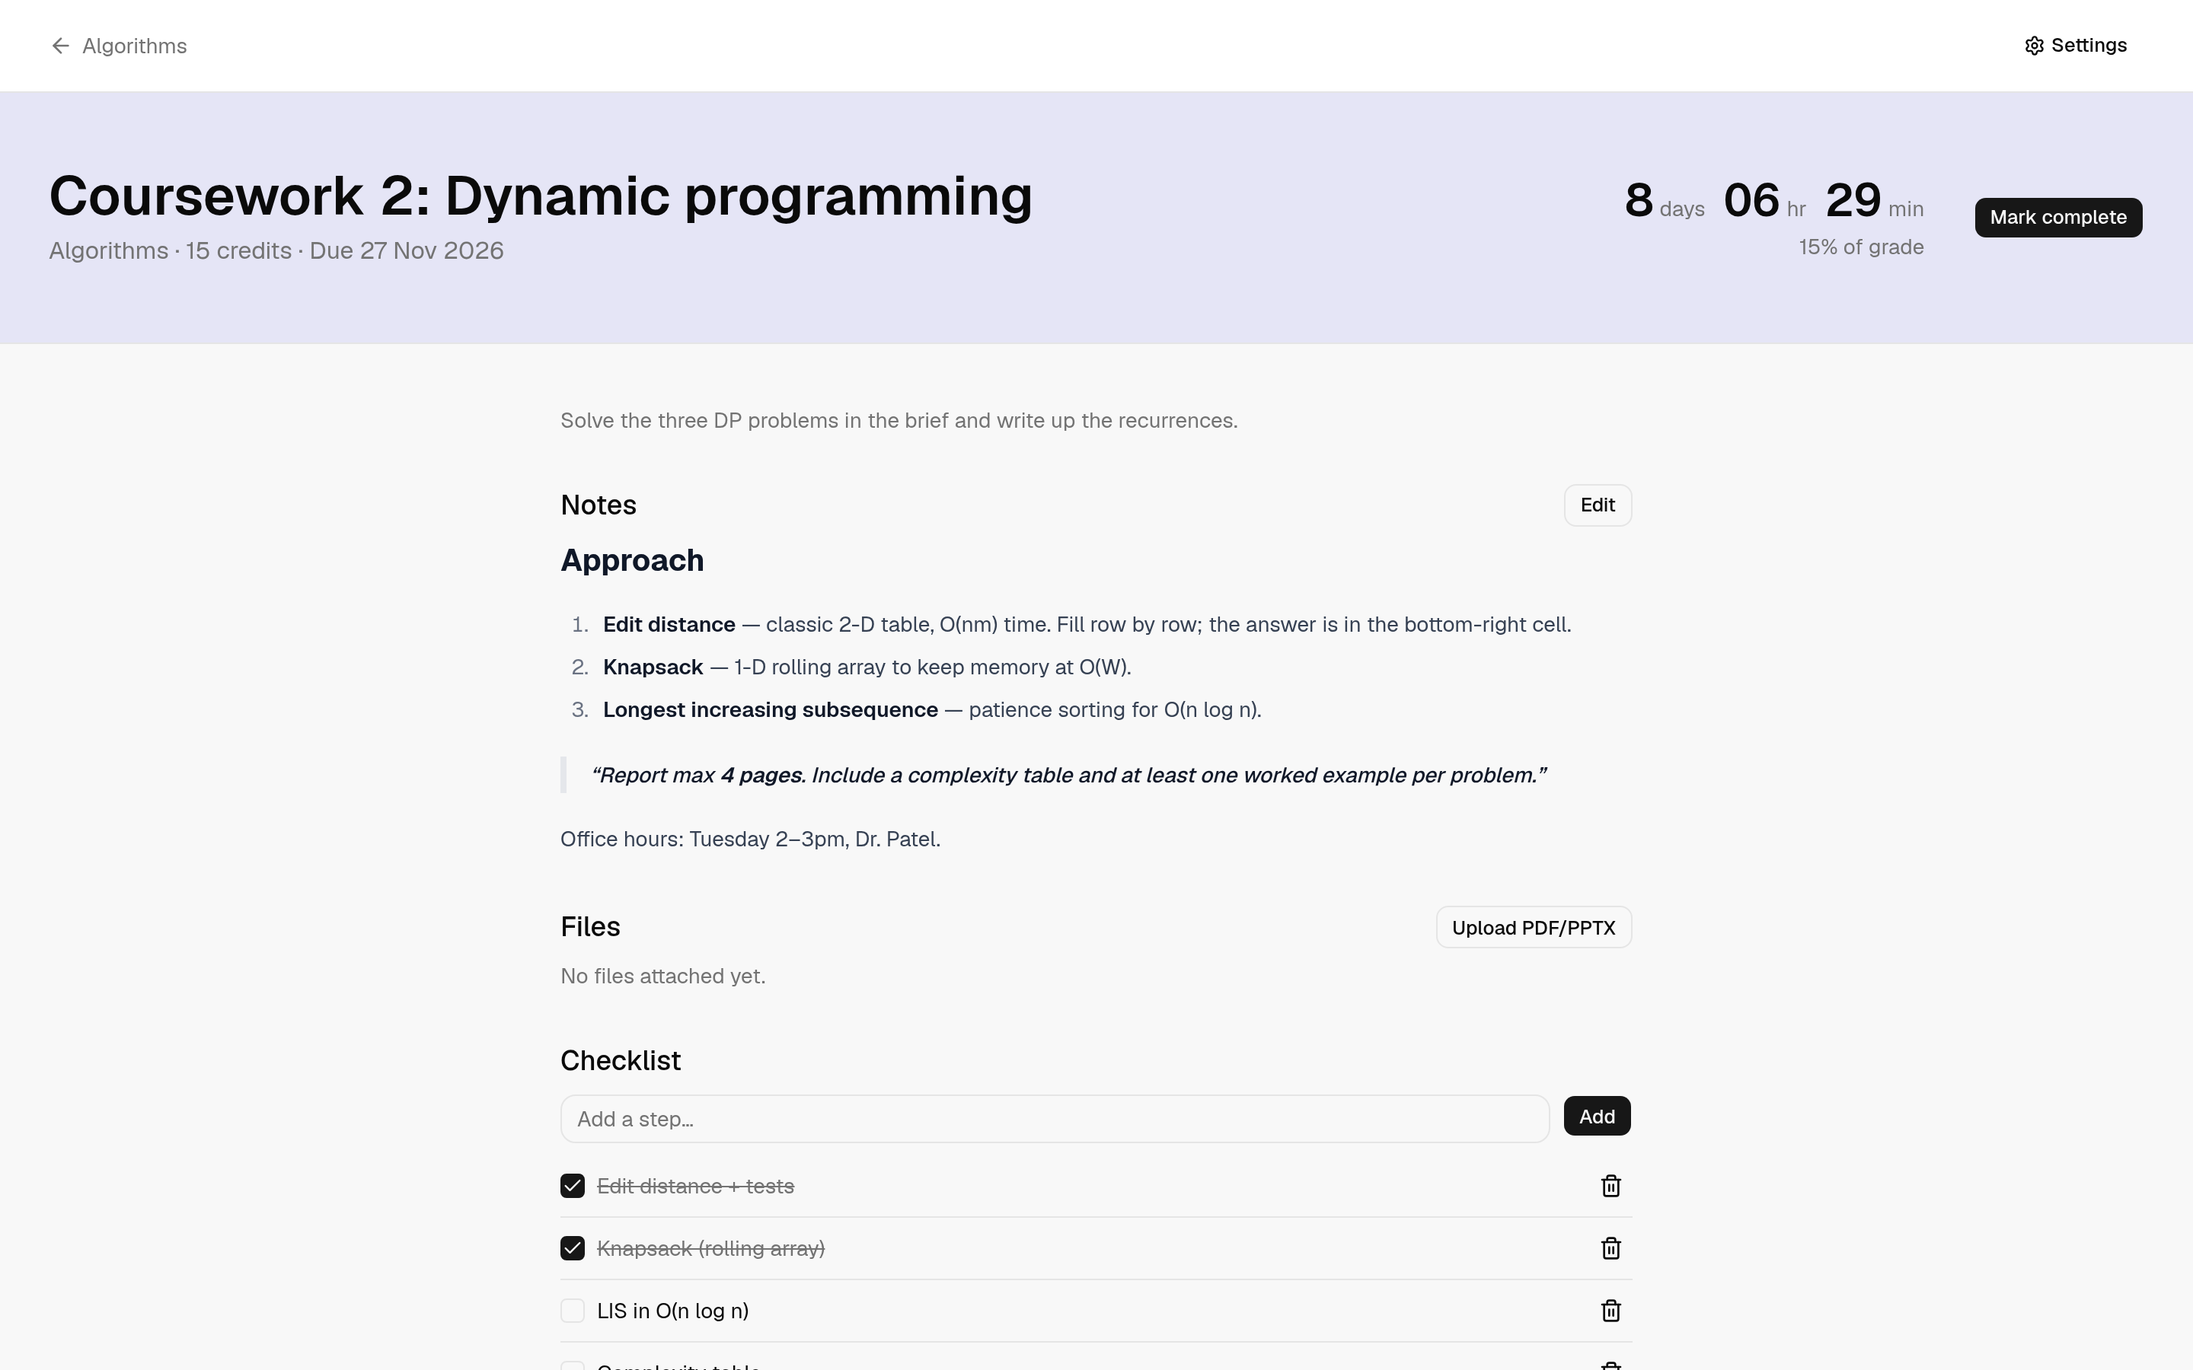
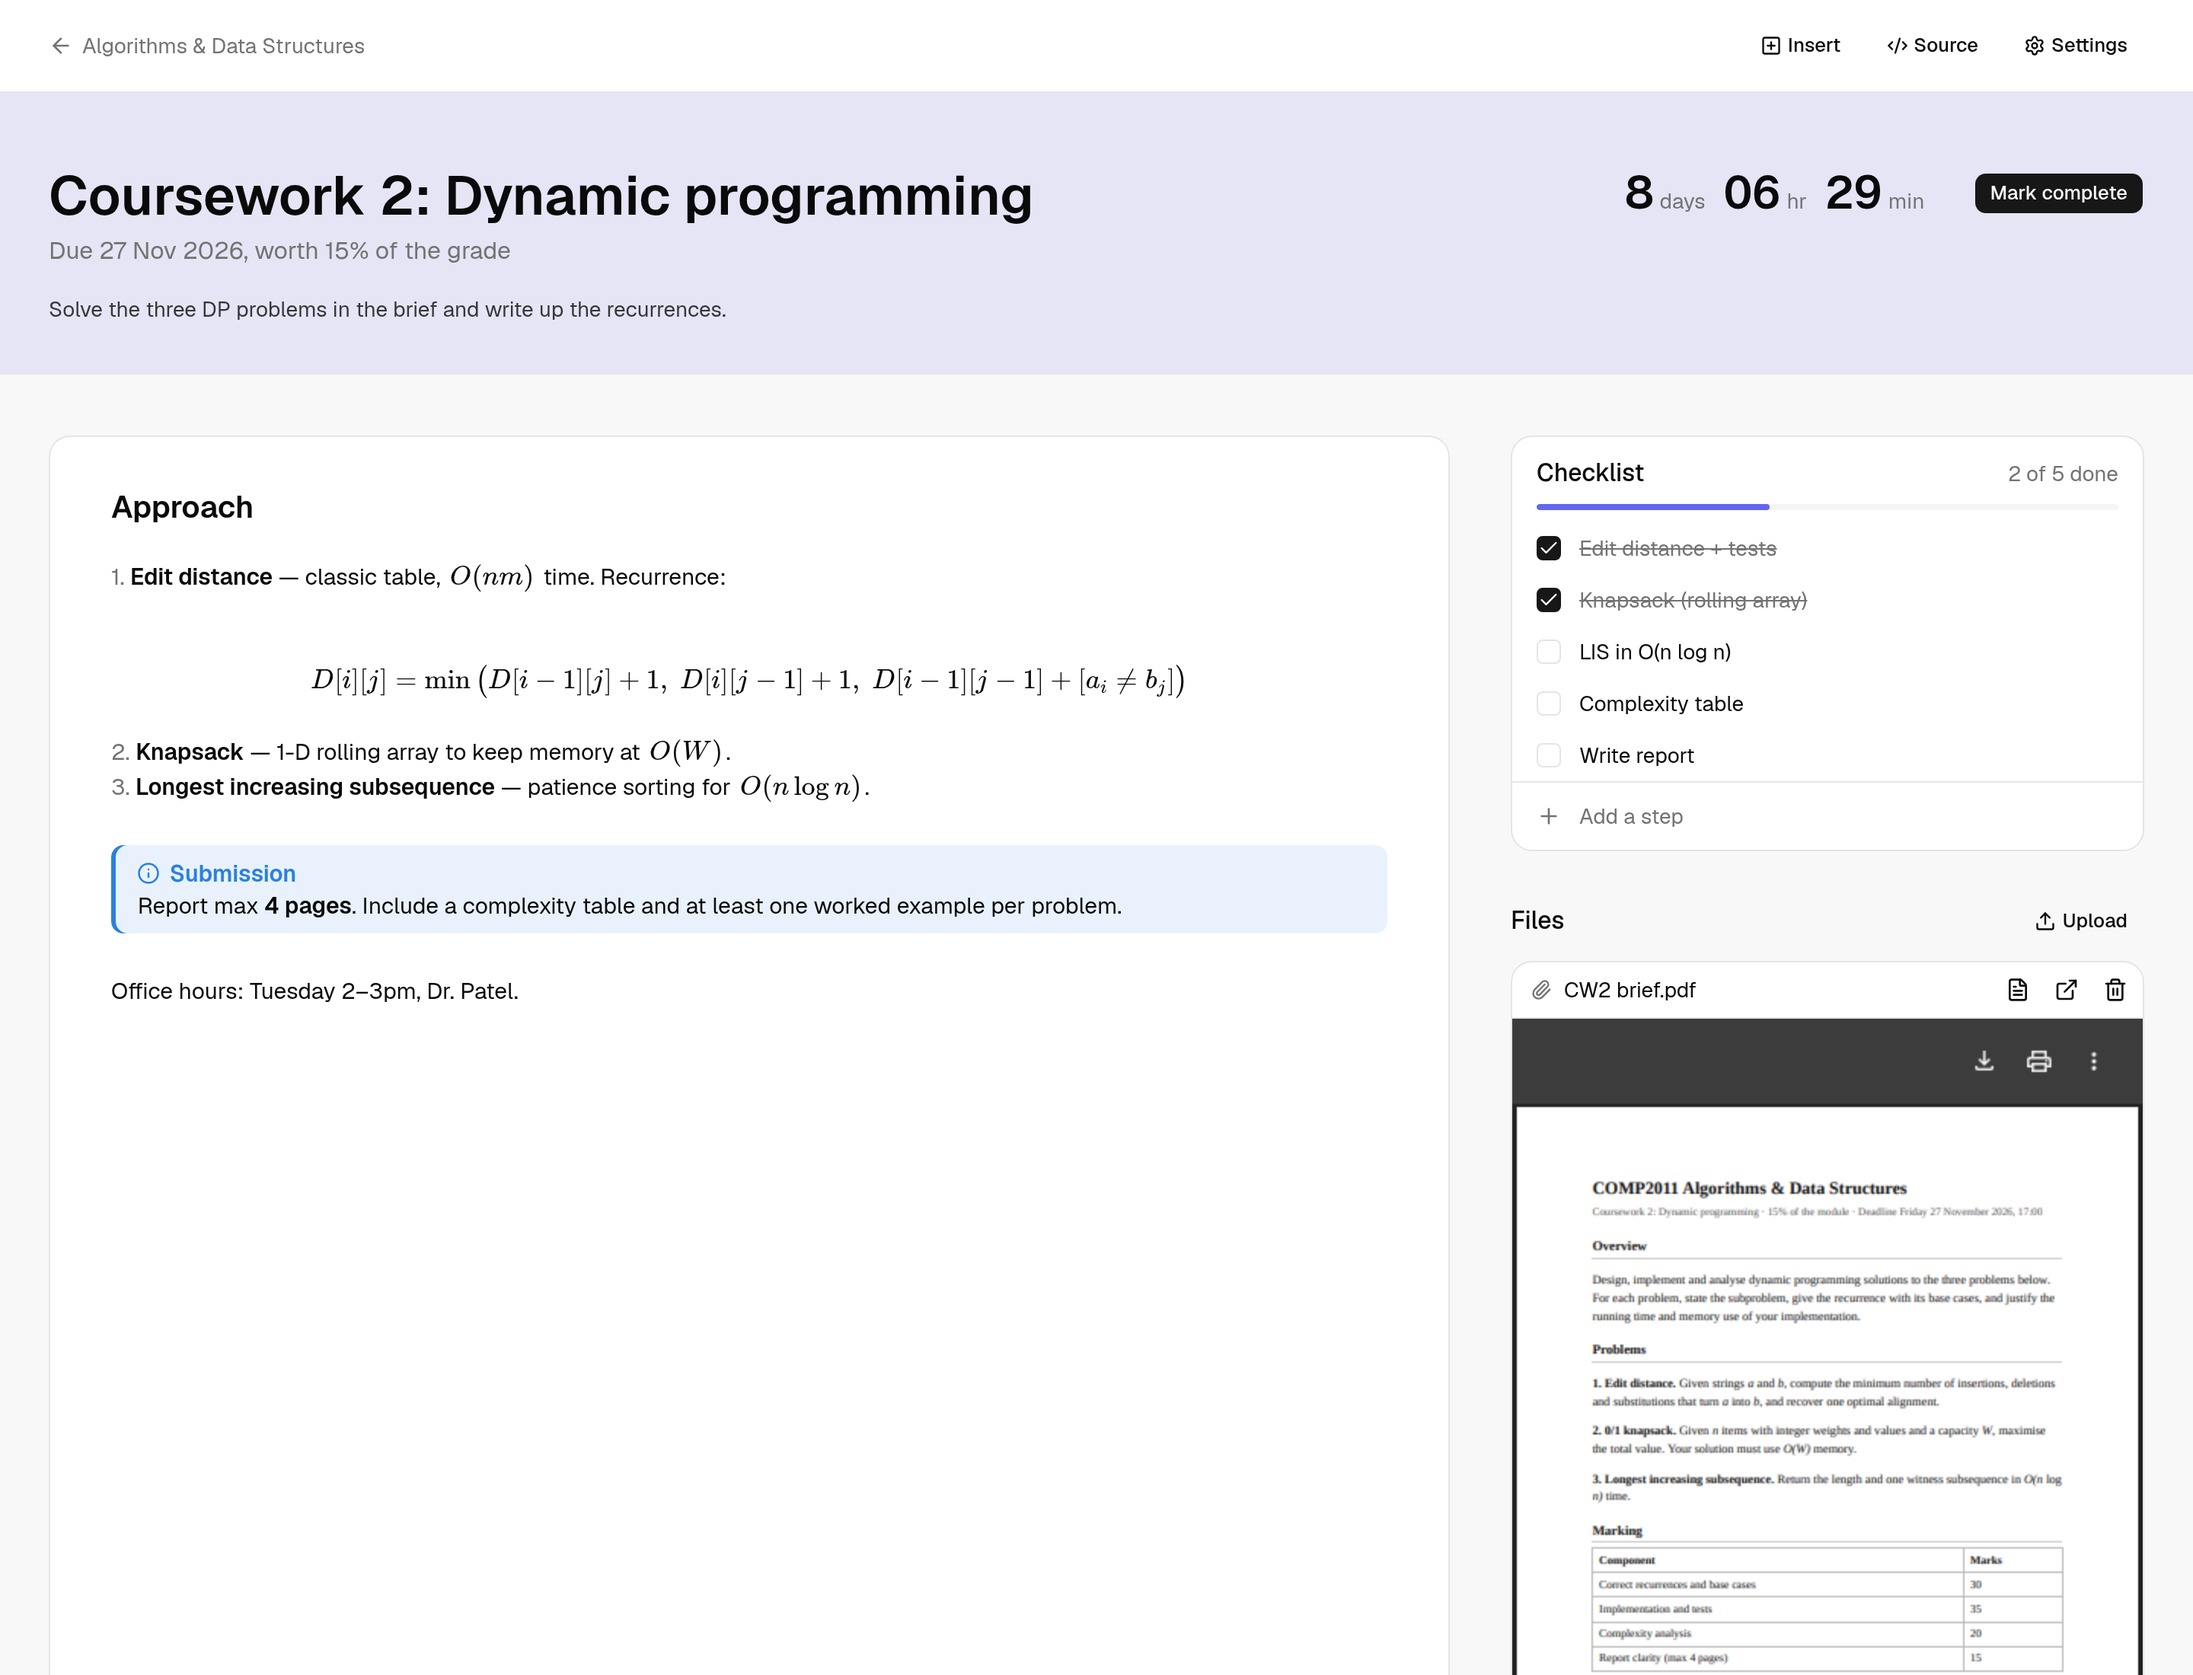
docs: README screenshots for the new assignment page and note blocks
- Coursework and exam assignment pages side by side (notes, checklist box,
  embedded PDF brief, covered topics, revision plan).
- Notes screenshot shows a side box and callouts; the notes list now
  describes the / menu, callouts, side boxes and file embeds.
- Revision plan and session screenshots retaken on the new layout.

diff --git a/README.md b/README.md
@@ -41,19 +41,25 @@ Each course gets a colour, a credit weighting, a live countdown to the next lect
 
 ### ✅ Assignments and exams
 
-Each assignment has a weighting (a module's weightings can't add up to more than 100%), a due-date countdown, markdown notes, a checklist and PDF/PPTX attachments. It moves through *not started → submitted → graded*. Exams also store a duration, a location and the topics they cover.
+Each assignment has a weighting (a module's weightings can't add up to more than 100%), a due-date countdown and a status that moves through *not started → submitted → graded*. Its notes fill the left of the page in the same live editor as your topic notes. On the right, a checklist tracks your progress, and attached files (the brief, a rubric, a past paper) open as inline PDF, image or video previews. Exams also store a duration, a location and the topics they cover, shown as links in the header, plus their revision plan.
 
-<img src="docs/screenshots/assignment.png" alt="Assignment page" width="100%">
+<table>
+  <tr>
+    <td><img src="docs/screenshots/assignment.png" alt="Coursework page with notes, a checklist and an embedded PDF brief"></td>
+    <td><img src="docs/screenshots/assignment-exam.png" alt="Exam page with covered topics, a checklist and a revision plan"></td>
+  </tr>
+</table>
 
 ### ✍ Notes that render as you type
 
 Each topic is a full-page markdown document in an Obsidian-style **live-preview editor**. Headings, tables, code blocks, images and **LaTeX maths** (KaTeX) render inline while you write.
 
 - `[[Wikilinks]]` between topics, with Ctrl/Cmd+click to jump
-- Slash-style shortcuts: type `\table3x4`, `\codeblock` or `\image` and press Space
+- A `/` menu for headings, lists, tables, code blocks, maths, images and embeds (`/table3x4`, `/tipcallout`, `/sidebox`)
+- Obsidian-style callouts (`> [!tip]`), two-column side boxes, and `![[file]]` embeds that preview PDFs, images and video inline. Paste or drop a file to upload it
 - Keybinds you can rebind, plus adjustable font size and table alignment
 
-<img src="docs/screenshots/notes.png" alt="Live-preview markdown editor with LaTeX and an AI summary" width="100%">
+<img src="docs/screenshots/notes.png" alt="Live-preview markdown editor with an AI summary, a side box, a callout and LaTeX" width="100%">
 
 ### 🧠 Spaced-repetition flashcards
 
